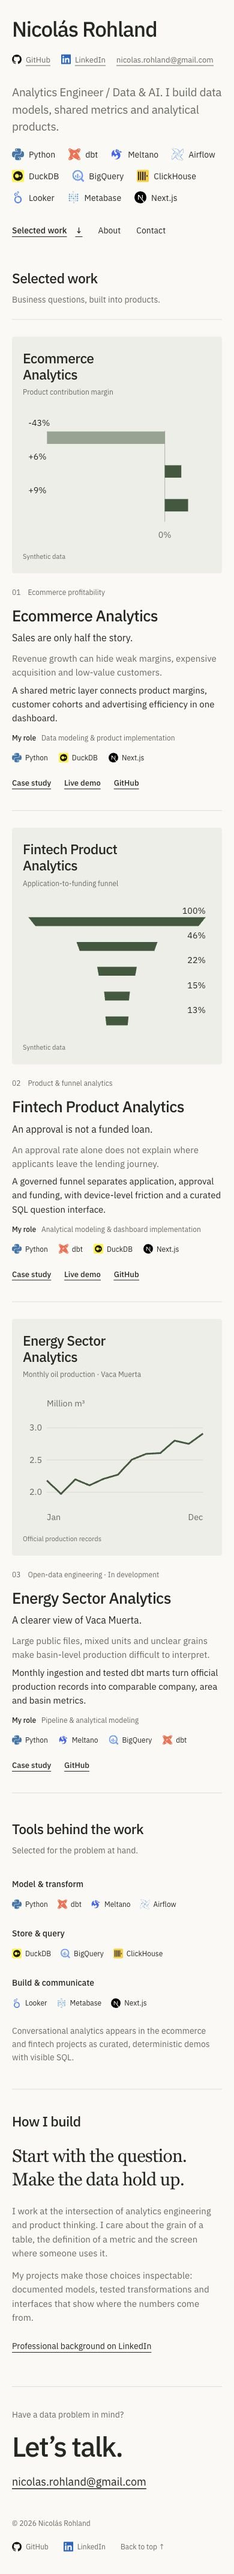
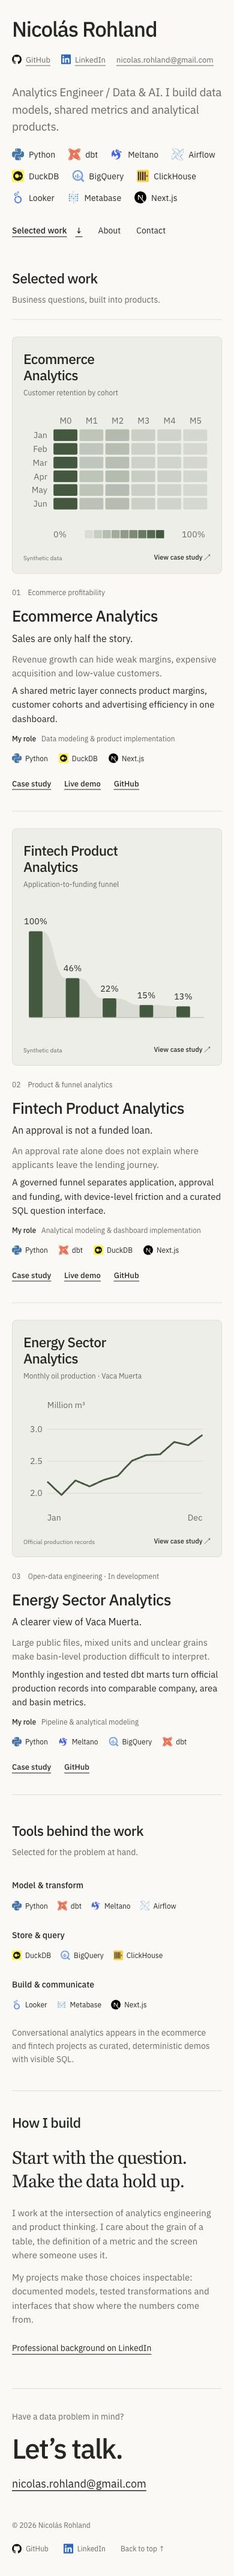
Refine project cards with cohort heatmap and connected funnel

diff --git a/src/components/project-cover.tsx b/src/components/project-cover.tsx
@@ -1,5 +1,5 @@
 import type { Project } from "@/data/site";
-import { applicationStages, monthlyOil, productMargins } from "@/data/cover-charts";
+import { applicationStages, monthlyOil, retentionCohorts } from "@/data/cover-charts";
 
 export function BasinChart() {
   const points = monthlyOil.map((value, index) => `${28 + index * 26},${135 - (value - 1900000) / 1000000 * 95}`).join(" ");
@@ -11,27 +11,32 @@ export function BasinChart() {
   </svg>;
 }
 
-function MarginChart() {
-  const x = (value: number) => 8 + (value + 50) / 65 * 258;
-  const zero = x(0);
-  return <svg className="cover-chart" viewBox="0 0 274 190" role="img" aria-label="Contribution margins of the top three ecommerce products by revenue: minus 43%, plus 6% and plus 9%. From the project's synthetic dataset.">
-    <line x1={zero} y1="25" x2={zero} y2="157" className="chart-axis" />
-    {productMargins.map((value, index) => <g key={index}>
-      <text x="8" y={18 + index * 49}>{value > 0 ? "+" : ""}{Math.round(value)}%</text>
-      <rect x={Math.min(zero, x(value))} y={26 + index * 49} width={Math.abs(x(value) - zero)} height="18" fill="currentColor" opacity={value < 0 ? .5 : 1} />
+function RetentionChart() {
+  return <svg className="cover-chart" viewBox="0 0 274 190" role="img" aria-label="Customer retention by cohort. January through June 2024 cohorts, months zero through five. All start at 100%; roughly 14–16% return in month five. From the project's synthetic dataset.">
+    {Array.from({length:6}, (_, index) => <text key={index} x={62 + index * 38} y="14" textAnchor="middle" className="secondary">M{index}</text>)}
+    {retentionCohorts.map((cohort, row) => <g key={row}>
+      <text x="35" y={35 + row * 20} textAnchor="end" className="secondary">{["Jan", "Feb", "Mar", "Apr", "May", "Jun"][row]}</text>
+      {cohort.map((value, column) => <rect key={column} x={44 + column * 38} y={22 + row * 20} width="35" height="17" rx="2" fill="currentColor" opacity={value}><title>{`${Math.round(value * 100)}% retained`}</title></rect>)}
     </g>)}
-    <text x={zero} y="180" textAnchor="middle" className="secondary">0%</text>
+    <text x="44" y="180" className="secondary">0%</text>
+    {Array.from({length:10}, (_, index) => <rect key={index} x={77 + index * 13} y="169" width="12" height="12" rx="1" fill="currentColor" opacity={index / 9} />)}
+    <text x="266" y="180" textAnchor="end" className="secondary">100%</text>
   </svg>;
 }
 
 function FunnelChart() {
+  const baseline = 163;
+  const top = (count: number) => baseline - 126 * count / applicationStages[0];
   return <svg className="cover-chart" viewBox="0 0 274 190" role="img" aria-label="Application-to-funding funnel. Started 100%, submitted 46%, approved 22%, contracted 15%, funded 13%. Percentages use all started applications as the denominator, from the synthetic dataset.">
     {applicationStages.map((count, index) => {
-      const y = 13 + index * 36, width = 258 * count / applicationStages[0], left = (274 - width) / 2;
-      return <g key={index}><text x="266" y={y} textAnchor="end">{Math.round(count / applicationStages[0] * 100)}%</text>
-        <polygon points={`${left},${y + 5} ${left + width},${y + 5} ${left + width * .96},${y + 18} ${left + width * .04},${y + 18}`} fill="currentColor" />
+      const x = 8 + index * 54, y = top(count), next = applicationStages[index + 1];
+      return <g key={index}>
+        {next !== undefined && <path d={`M ${x + 20} ${y} C ${x + 37} ${y}, ${x + 37} ${top(next)}, ${x + 54} ${top(next)} L ${x + 54} ${baseline} L ${x + 20} ${baseline} Z`} fill="currentColor" opacity=".12" />}
+        <rect x={x} y={y} width="20" height={baseline - y} rx="2" fill="currentColor" />
+        <text x={x + 10} y={y - 10} textAnchor="middle">{Math.round(count / applicationStages[0] * 100)}%</text>
       </g>;
     })}
+    <line x1="8" y1={baseline} x2="264" y2={baseline} className="chart-axis" />
   </svg>;
 }
 
@@ -51,8 +56,8 @@ export function ProjectCover({ project }: { project: Project }) {
   const lines = energy ? ["Energy Sector", "Analytics"] : fintech ? ["Fintech Product", "Analytics"] : ["Ecommerce", "Analytics"];
   return <div className="project-cover">
     <span className="cover-title">{lines[0]}<br />{lines[1]}</span>
-    <p className="cover-subtitle">{energy ? "Monthly oil production · Vaca Muerta" : fintech ? "Application-to-funding funnel" : "Product contribution margin"}</p>
-    {energy ? <OilChart /> : fintech ? <FunnelChart /> : <MarginChart />}
-    <p className="cover-caption">{energy ? "Official production records" : "Synthetic data"}</p>
+    <p className="cover-subtitle">{energy ? "Monthly oil production · Vaca Muerta" : fintech ? "Application-to-funding funnel" : "Customer retention by cohort"}</p>
+    {energy ? <OilChart /> : fintech ? <FunnelChart /> : <RetentionChart />}
+    <div className="cover-footer"><p className="cover-caption">{energy ? "Official production records" : "Synthetic data"}</p><span className="cover-action">View case study <span aria-hidden="true">↗</span></span></div>
   </div>;
 }

diff --git a/src/app/globals.css b/src/app/globals.css
@@ -34,9 +34,9 @@ h2 { font-size:23px; font-weight:500; letter-spacing:-.6px; }
 .section-heading p { font-size:14px; color:var(--muted); }
 .project-list { border-top:1px solid var(--line); }
 .project-row { display:grid; grid-template-columns:310px 1fr; gap:40px; padding-block:34px; border-bottom:1px solid var(--line); align-items:center; }
-.cover-link { display:block; min-width:0; border-radius:5px; }
+.cover-link { display:block; min-width:0; border-radius:8px; transition:transform 180ms ease,box-shadow 180ms ease; }
 .cover-link:hover { text-decoration:none; }
- .project-cover { width:100%; background:#eeeee7; border-radius:4px; padding:22px 18px 18px; display:grid; grid-template-rows:62px 44px auto 30px; }
+.project-cover { width:100%; background:#eeeee7; border:1px solid #ddded6; border-radius:8px; padding:22px 18px 18px; display:grid; grid-template-rows:62px 44px auto 30px; }
 .cover-title { font-size:23px; font-weight:500; line-height:1.18; letter-spacing:-.65px; }
 .cover-subtitle { font-size:12px; color:var(--muted); line-height:1.4; }
 .cover-chart { display:block; width:100%; height:auto; color:var(--accent); }
@@ -44,7 +44,11 @@ h2 { font-size:23px; font-weight:500; letter-spacing:-.6px; }
 .cover-chart .secondary { fill:var(--muted); }
 .cover-chart .chart-axis { stroke:#b8bbae; }
 .cover-chart .chart-grid { stroke:#b8bbae; opacity:.35; }
-.cover-caption { font-size:11px; color:var(--muted); margin-top:12px; line-height:1.4; }
+.cover-footer { display:flex; align-items:end; justify-content:space-between; gap:8px; }
+.cover-caption { font-size:10px; color:var(--muted); line-height:1.4; }
+.cover-action { font-size:11px; font-weight:500; white-space:nowrap; }
+.cover-link:focus-visible .cover-action { text-decoration:underline; }
+@media(hover:hover) and (pointer:fine) { .cover-link:hover { transform:scale(1.02); box-shadow:0 8px 20px rgb(36 39 34 / .09); } .cover-link:hover .cover-action { text-decoration:underline; } }
 .basin-chart { display:block; width:100%; height:auto; margin-top:13px; overflow:visible; }
 .basin-chart text { font-family:"IBM Plex Sans",sans-serif; font-size:11px; fill:currentColor; }
 .basin-chart line { stroke:currentColor; opacity:.3; }
@@ -115,7 +119,7 @@ h2 { font-size:23px; font-weight:500; letter-spacing:-.6px; }
   .case-page { padding-top:15px; } .case-heading { margin-top:28px; } .case-heading h1 { font-size:52px; } .case-thesis { font-size:23px; }
   .case-body { margin-top:34px; } .case-visual .basin-chart { padding:15px; } .case-footer { flex-wrap:wrap; }
 }
-@media(prefers-reduced-motion:reduce) { html { scroll-behavior:auto; } }
+@media(prefers-reduced-motion:reduce) { html { scroll-behavior:auto; } .cover-link { transition:none; } .cover-link:hover { transform:none; } }
 .brand-logo { width:16px; height:16px; }
 .tech-stack .duckdb-logo { background:#fff000; padding:2px; border-radius:2px; }
 .social-link { display:inline-flex; gap:7px; align-items:center; }

diff --git a/src/data/cover-charts.ts b/src/data/cover-charts.ts
@@ -1,6 +1,13 @@
-// Ecommerce: public/data/dashboard.json, top three products by gross revenue.
-// Values are contribution_margin × 100 from the project's synthetic dataset.
-export const productMargins = [-43.15781926142033, 6.059540846817558, 8.546128485138989];
+// Ecommerce: public/data/dashboard.json, Jan–Jun 2024 cohorts, months 0–5.
+// Each value is retained_customers / cohort_size in the synthetic dataset.
+export const retentionCohorts = [
+  [1, .2710727969348659, .34434865900383144, .210727969348659, .1810344827586207, .1527777777777778],
+  [1, .26263580538497877, .3240434577231932, .2021728861596599, .17005196032120926, .14312706660368446],
+  [1, .2687007874015748, .3198818897637795, .19438976377952755, .17273622047244094, .14960629921259844],
+  [1, .2763234438627109, .3391506689936009, .22164048865619546, .19604421175101802, .16055846422338568],
+  [1, .2797347699958558, .32905097389142146, .21301284707832574, .17778698715292168, .14711976792374637],
+  [1, .29934065934065934, .3323076923076923, .2079120879120879, .18021978021978022, .1476923076923077],
+];
 
 // Fintech: web/src/data/dashboard.json, product_metrics, overall/all counts.
 // Started → submitted → approved → contracted → funded; synthetic applications.

diff --git a/docs/verification.md b/docs/verification.md
@@ -81,3 +81,19 @@ Ecommerce and fintech values come from their synthetic datasets, with only round
 Fresh checks: full lint, typecheck, production Webpack build, and `git diff --check` pass. All four exported content pages have valid internal routes, anchors, image paths and metadata. Desktop 1440px and mobile 390px visually reviewed; no horizontal overflow at 1440/768/390/320px. All three covers have identical heights at each tested primary viewport. All non-anchor/non-email homepage links retain `_blank`; no browser warning/error logged. No existing test suite. Lighthouse limitation and hosted release checks above remain applicable.
 
 External links: all ten returned HTTP 200 on the final retry; the three initial GitHub 503 responses were transient.
+
+## Interactive card refinement
+
+Ecommerce now uses a customer-retention cohort heatmap, so its visual describes repeat customer behavior rather than a lending funnel. Fintech uses proportional vertical stage columns connected by smooth curves, following the requested Vercel funnel direction. The energy chart is unchanged. Source values and synthetic-data disclosures are retained.
+
+The cover is a link-shaped card with an 8px radius and one quiet border. Its always-visible “View case study” label makes the destination clear on touch devices; the external-link arrow signals a new tab. A 2% scale and soft elevation on precise-pointer hover reinforce clickability without changing layout. Keyboard focus remains visible, and reduced-motion disables scale and transitions. Repository links remain directly beside each project’s case/demo links.
+
+Design read: personal technical portfolio for hiring teams, in a restrained editorial style. ENERGY 1 / RHYTHM 2 / MOTION 1. The shared green palette and IBM Plex Sans preserve the approved identity; only the project’s analytical question changes the chart type. Equal chart slots keep titles and subtitles aligned.
+
+Fresh validation: lint, typecheck, production Webpack build and diff check pass after regenerating cloud-conflicted dependency/type caches. Fixed SVG tooltip titles to use one text child, resolving the observed hydration mismatch. The final production document loads without browser warnings/errors. Desktop 1440px, mobile 390px and minimum 320px have no overflow, including the new card footer. Keyboard focus on the cover link is visible; clicking the fintech cover opens the correct case in a separate tab. Local routes/assets and ten external links passed the renewed link check.
+
+Antislop delivery gate:
+- Hard gate PASS: charts use repository values with source/disclosure; unchanged navigation has valid hrefs; new cover action opens the case in a new tab; focus is visible and tested widths have no overflow. No fabricated metrics, testimonials, dead controls or runtime errors in final inspected state.
+- Purpose gate PASS: card radius/border identify a clickable preview; hover scale/elevation signal interaction, with reduced-motion support; arrow identifies new-tab navigation; green/IBM Plex Sans retain the owner-approved visual identity.
+- Liveliness PASS: ENERGY 1 / RHYTHM 2 / MOTION 1; shared cover structure is explicitly requested, while heatmap/funnel/line reflect three different analytical questions. The unchanged name-led hero and typography-led About preserve section rhythm.
+- Craftsmanship/quality PASS: titles and subtitle slots stay aligned; layout works at desktop/mobile; hover is restricted to precise pointers and never required for navigation; all chart values remain source-backed. A working build and browser click-through back the final state.

diff --git a/docs/assets.md b/docs/assets.md
@@ -1,7 +1,7 @@
 # Asset sources
 
 - Project covers: shared typography and palette with inline SVG charts approved by the owner. No generated illustrations are displayed.
-- Ecommerce cover: contribution margins of the top three products by gross revenue from `ecommerce-profitability-analytics/public/data/dashboard.json` (−43.1578%, +6.0595%, +8.5461%), displayed as rounded percentages. Synthetic data, not measured business impact.
+- Ecommerce cover: customer-retention heatmap from `ecommerce-profitability-analytics/public/data/dashboard.json`, `cohorts`, January–June 2024 and months 0–5. Cell opacity uses `retention_rate` directly on a 0–100% scale. Synthetic data, not measured business impact.
 - Fintech cover: overall application counts from `lendflow-fintech-analytics/web/src/data/dashboard.json`: 100,000 started → 45,692 submitted → 22,351 approved → 14,587 contracted → 13,065 funded. Widths use these counts; percentages all use started applications as denominator. Synthetic data.
 - Energy cover and case page: official `apps/spike/data/monthly_pulse.csv` at Vaca Muerta repository commit `1c1c30eb9e29901048cbd812eb14f46c109e4439`. The available extract covers Jan–Dec 2025 only. The cover omits the year from its title; accessible descriptions and case limitations state the extract's scope. No live feed, extrapolation or 2026 coverage is claimed.
 - Ecommerce and fintech case pages: real captures of public live demos taken 2026-10-01, separate from the new covers.
